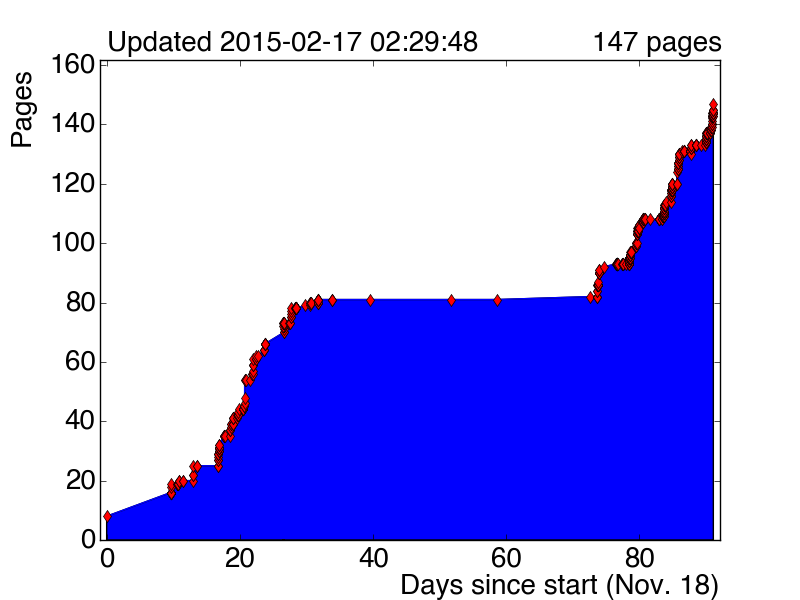
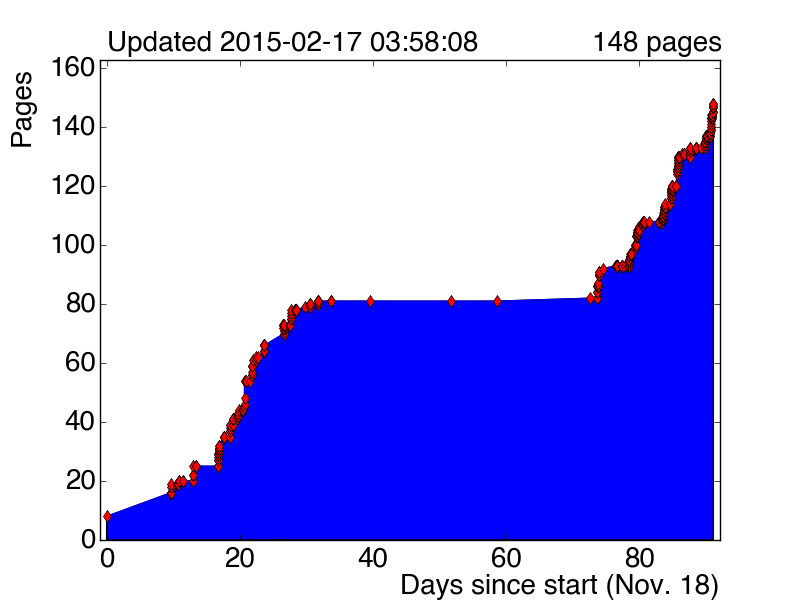
wrap up fakes

diff --git a/tex/backgrounds.tex b/tex/backgrounds.tex
@@ -423,9 +423,13 @@ Data and prediction in the same-sign validation region are shown in \cref{fig:ba
 
 \subsection{Uncertainties}
 
+Multiple sources of uncertainties to the fake factor method are considered. First, the statistical uncertainty on the fake factors measured in control regions is propagated to the uncertainty on the signal region fakefactor. Second, the uncertainty on the relative contributions of the different $\fakes$ processes are varied and propagated to the signal region fakefactor calculation. Third, the fidelity of using control region fakefactors in the signal region is tested by comparing fakefactors measured in simulation in control regions versus the signal region. No significant difference is found, and the uncertainty is ignored. Fourth, the closure of the method is tested with predictions in the same sign validation region and in the signal region in simulation. No signs of systematic bias in the BDT score prediction are found, and the closure uncertainties are ignored.
+
+The pre-fit impact of these uncertainties on the $\fakes$ prediction is shown in each bin of the VBF discriminator in \cref{fig:backgrounds-uncertainties-fakes}. The largest uncertainty at high VBF BDT score is the 15\% statistical uncertainty on the prediction. This could be ameliorated by relaxing the $\veryloose$ requirement on anti-identified $\tauh$, though this would risk introducing systematic bias of increasing the extrapolation. The largest systematic uncertainty is on the relative contribution of $\fakes$ processes, and this only propagates to a 3\% uncertainty on the prediction.
+
 \begin{figure}[tp]
   \includegraphics[width=0.90\textwidth]{figures/uncertainties/uncertainties_lephad_paper14_8TeV_fakes_VBF}
-  \caption{The pre-fit fractional uncertainty on the $\fakes$ prediction in each bin of the VBF category.}
+  \caption{The pre-fit fractional uncertainty on the $\fakes$ prediction in each bin of the VBF category. $\text{R}_\text{X}$ refers to the uncertainty on the relative contribution of $\fakes$ processes.}
   \label{fig:backgrounds-uncertainties-fakes}
 \end{figure}
 

diff --git a/pages.md b/pages.md
@@ -582,3 +582,14 @@
 + [2015-02-17-02h11m42s] 145
 + [2015-02-17-02h13m38s] 145
 + [2015-02-17-02h29m48s] 147
++ [2015-02-17-02h42m29s] 147
++ [2015-02-17-03h23m49s] 148
++ [2015-02-17-03h24m34s] 148
++ [2015-02-17-03h25m25s] 147
++ [2015-02-17-03h28m16s] 147
++ [2015-02-17-03h32m37s] 147
++ [2015-02-17-03h33m57s] 147
++ [2015-02-17-03h34m41s] 147
++ [2015-02-17-03h36m10s] 147
++ [2015-02-17-03h40m29s] 147
++ [2015-02-17-03h58m08s] 148
